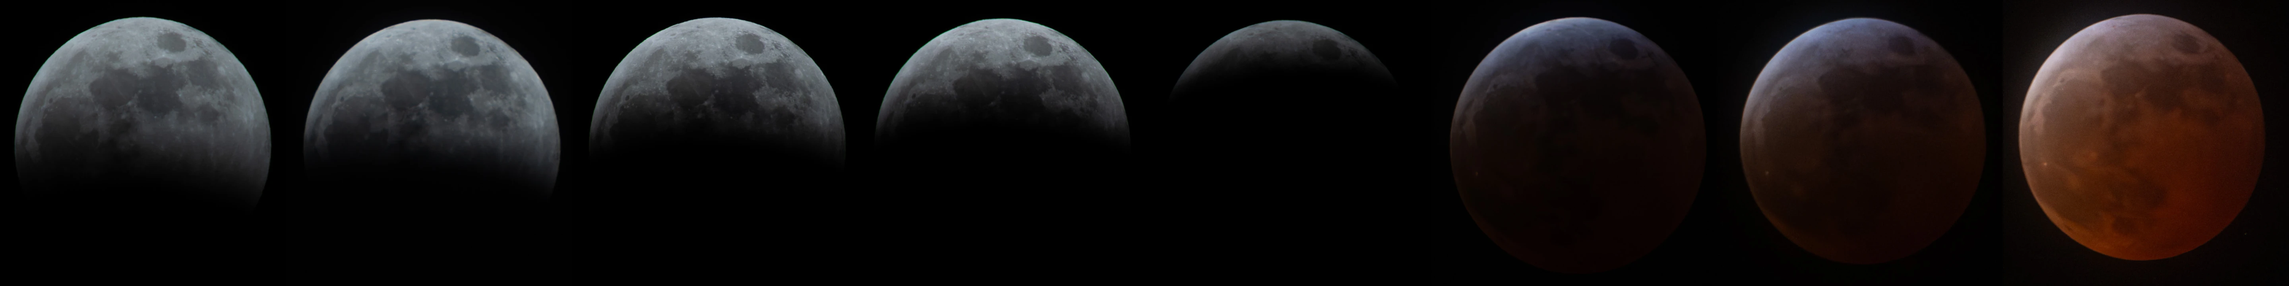
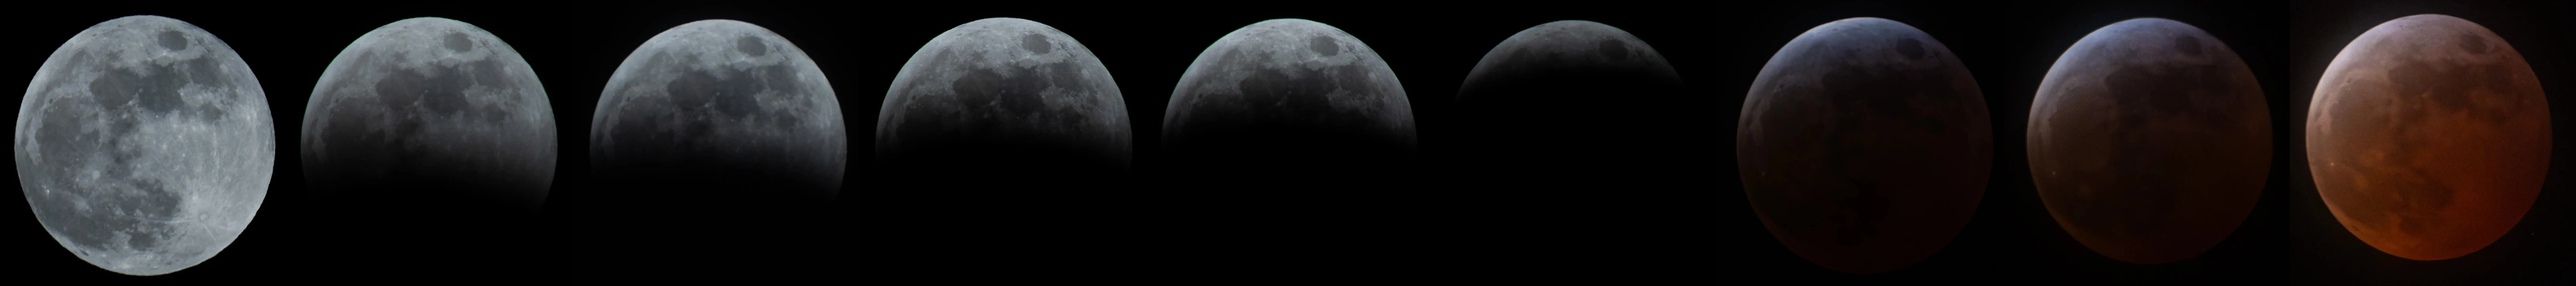
post: add the full moon to the process figure

diff --git a/content/posts/crimson-macaron/index.md b/content/posts/crimson-macaron/index.md
@@ -23,7 +23,7 @@ F/5-6.3 DG DN OS lens, all taken in Seattle, Washington, USA.
 
 ## The Eclipse Process
 
-![The process of the lunar eclipse in 8 photos. The bright section became smaller gradually, and the red colour on the Earth's umbra became obvious eventually.](full-process.webp "The process of the lunar eclipse in 8 photos")
+![The process of the lunar eclipse in 9 photos. The bright section became smaller gradually, and the red colour on the Earth's umbra became obvious eventually.](full-process.webp "The process of the lunar eclipse in 9 photos")
 
 ### Pictures of the Process
 
